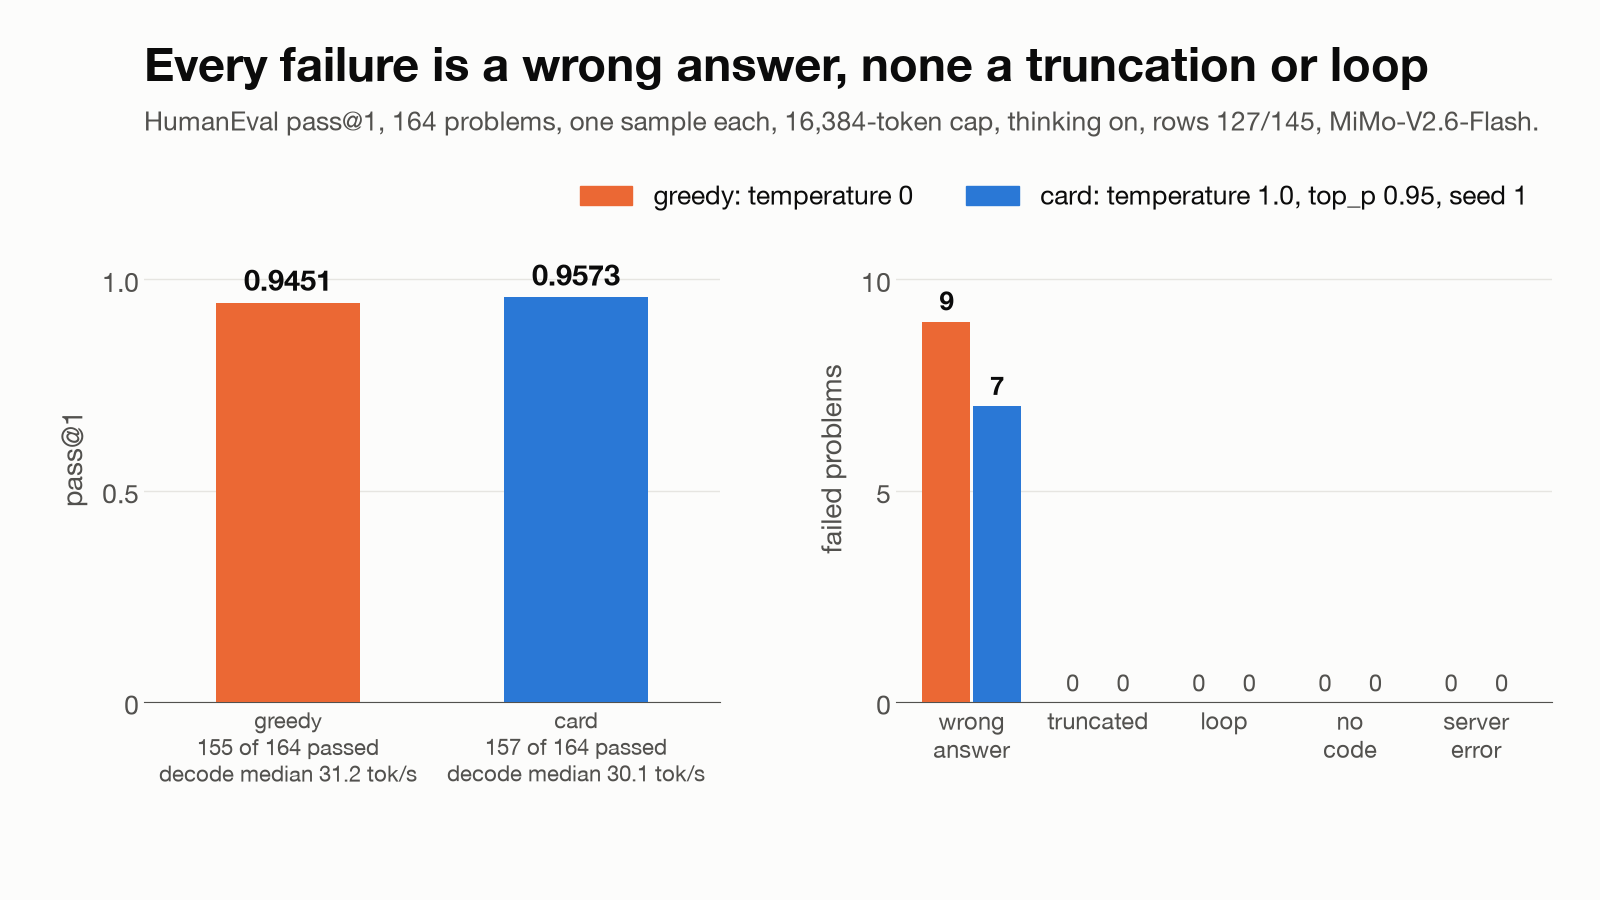
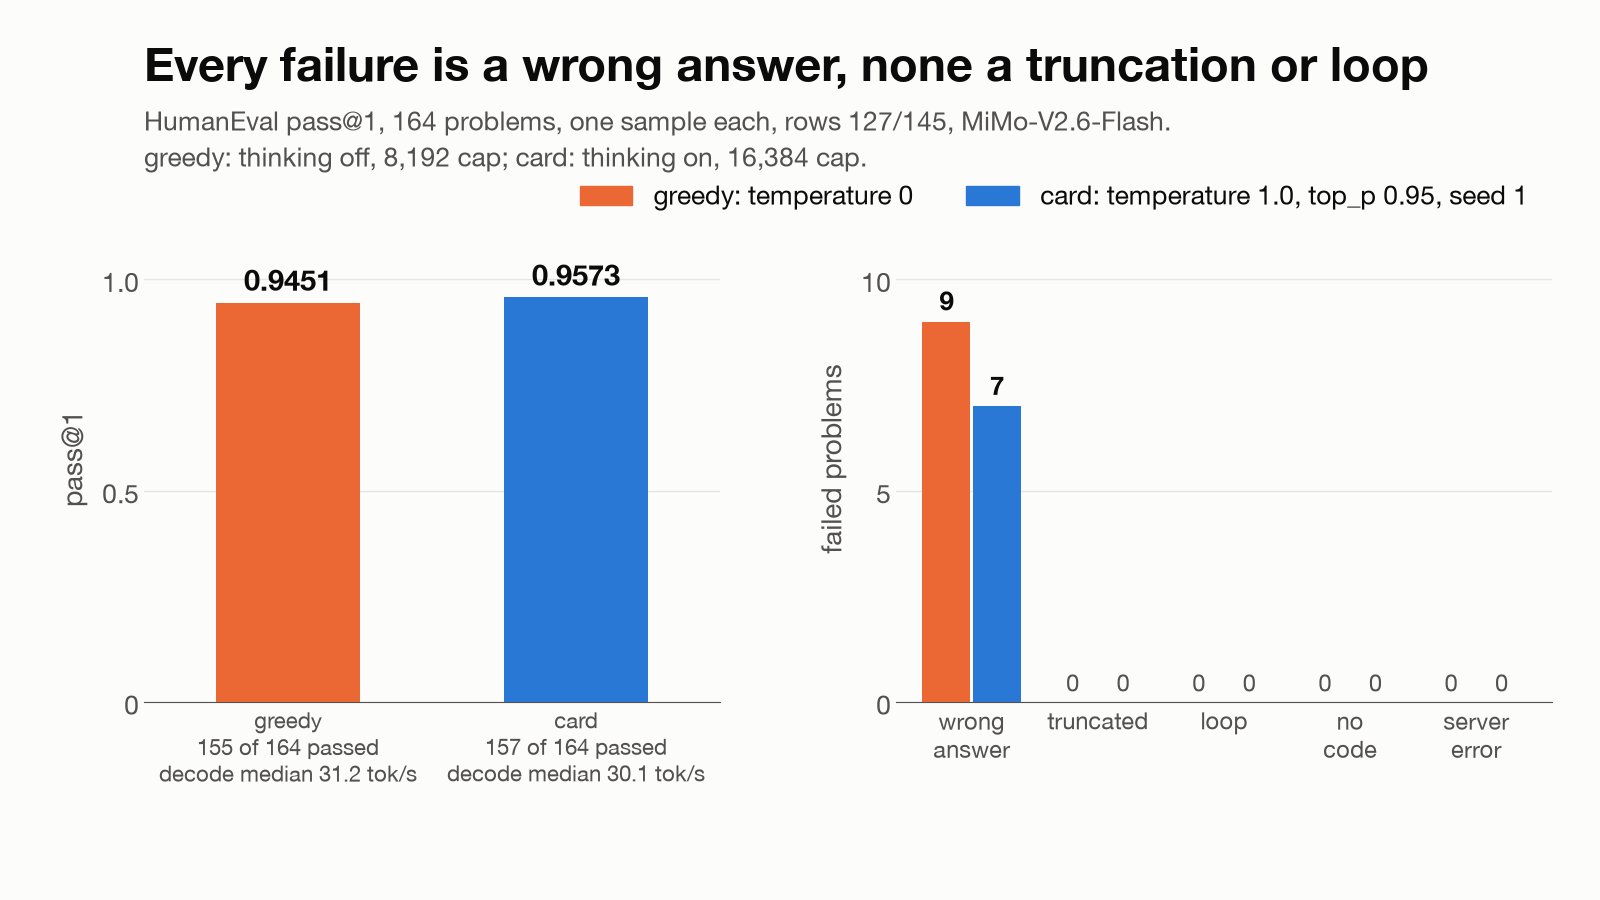
HumanEval docs: the greedy arm ran thinking off at 8,192 tokens, the card arm thinking on at 16,384
The README, docs/mimo.md and the HumanEval chart said both arms ran with a 16,384-token cap and thinking on. The
judge lines of the run (cells/humaneval3-20261011) show greedy at temperature 0, seed 0, thinking off, max_tokens
8,192 and card at temperature 1.0, top_p 0.95, seed 1, thinking on, max_tokens 16,384. Each arm's settings are now
stated separately; the pass@1 numbers (0.9451, 0.9573) and the failing-problem note are unchanged. The chart is
regenerated with the new subtitle; the other three figures re-render byte-identical.

Changed region(s): [[0.0938, 0.1244, 0.9688, 0.1867]]

diff --git a/scripts/mimo_charts.py b/scripts/mimo_charts.py
@@ -51,8 +51,9 @@ CELLS_16K = (
     ("greedy", "136-token answer", "134/152", 1003.0, 23.0),
 )
 
-# HumanEval on 746e7da9 (plugin 8e7d186; the binary of record 4b018c54 reproduces its 16K cell token for token): 164 problems, one sample each, pass@1, cap 16,384 tokens, thinking on,
-# rows 127/145. arm: (passed, wrong answer, truncated, loop, no code, server error, decode tok/s median).
+# HumanEval on 746e7da9 (plugin 8e7d186; the binary of record 4b018c54 reproduces its 16K cell token for token): 164 problems, one sample each, pass@1,
+# greedy: temperature 0, seed 0, thinking off, 8,192 cap; card: temperature 1.0, top_p 0.95, seed 1, thinking on, 16,384 cap; rows 127/145.
+# arm: (passed, wrong answer, truncated, loop, no code, server error, decode tok/s median).
 # Source: cells/humaneval3-20261011 (REPORT.md).
 HUMANEVAL = {"greedy": (155, 9, 0, 0, 0, 0, 31.2), "card": (157, 7, 0, 0, 0, 0, 30.1)}
 FAILURE_CLASSES = ("wrong answer", "truncated", "loop", "no code", "server error")
@@ -174,8 +175,8 @@ def cells_16k():
 
 def humaneval():
     fig = figure("Every failure is a wrong answer, none a truncation or loop",
-                 "HumanEval pass@1, 164 problems, one sample each, 16,384-token cap, thinking on, rows 127/145, "
-                 "MiMo-V2.6-Flash.")
+                 "HumanEval pass@1, 164 problems, one sample each, rows 127/145, MiMo-V2.6-Flash.")
+    fig.text(0.09, 0.815, "greedy: thinking off, 8,192 cap; card: thinking on, 16,384 cap.", fontsize=19, color=INK2)
     arms = (("greedy", ORANGE), ("card", BLUE))
     left = axes(fig, [0.09, 0.22, 0.36, 0.54], 1.15, [0, 0.5, 1.0], "pass@1", fmt=lambda v: f"{v:.1f}" if v else "0")
     for i, (arm, color) in enumerate(arms):

diff --git a/README.md b/README.md
@@ -281,8 +281,9 @@ bf16res tier has not been measured on these builds.
 
 [![1K–1M sweep summary on 746e7da9: decode, prefill, TTFT, memory peaks and completion tokens](docs/benchmarks/mimo-v26-flash/summary.png)](docs/benchmarks/mimo-v26-flash/README.md)
 
-HumanEval (164 problems, one sample each, pass@1, cap 16,384 tokens, thinking on, rows 127 / 145): greedy 155 / 164
-= 0.9451, card 157 / 164 = 0.9573; every failure is a wrong answer (none truncated, looped, without code or errored).
+HumanEval (164 problems, one sample each, pass@1, rows 127 / 145), two arms with their own settings: greedy (temperature 0,
+seed 0, thinking off, cap 8,192 tokens) 155 / 164 = 0.9451; card (temperature 1.0, top_p 0.95, seed 1, thinking on, cap
+16,384 tokens) 157 / 164 = 0.9573. Every failure is a wrong answer (none truncated, looped, without code or errored).
 Scored on `746e7da9` (host `2c041af6` + this branch at `8e7d186`); the earlier run on
 `bb3c7245` (host `2c041af6` + plugin `d67567e`, this branch before its layout move) gave the same counts and the same
 failing problems.

diff --git a/docs/mimo.md b/docs/mimo.md
@@ -239,7 +239,9 @@ The served 16K cells by answer length and rows; the greedy pair's 136-token answ
 
 ![HumanEval pass@1 for greedy and card sampling, and the failed problems by class](img/mimo-humaneval.png)
 
-HumanEval on `746e7da9`, greedy and card: every failed problem is a wrong answer.
+HumanEval on `746e7da9`, two arms with their own settings: greedy (temperature 0, seed 0, thinking off, 8,192-token cap)
+155 / 164 = 0.9451; card (temperature 1.0, top_p 0.95, seed 1, thinking on, 16,384-token cap) 157 / 164 = 0.9573. Every
+failed problem is a wrong answer.
 
 ![Share of routes a layer's busiest half of experts covers within and across contexts, and the decode hit rate of the dynamic policy against a static top-124 set](img/mimo-routing.png)
 
